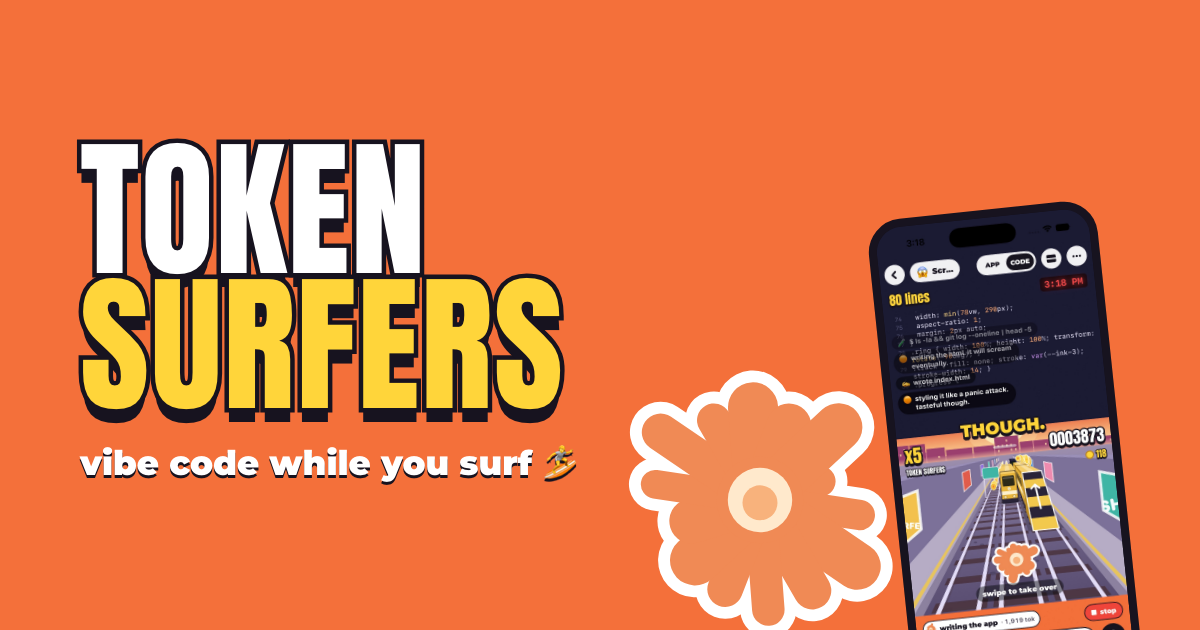
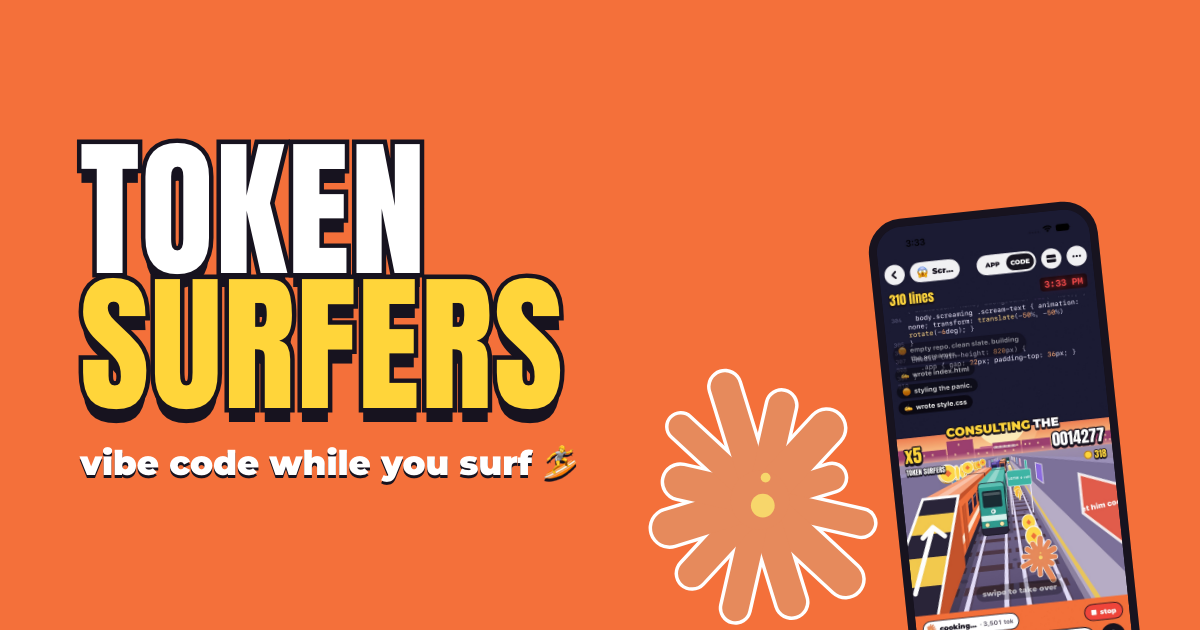
Token Surfers build 11: the splat measured off the reference video — 12 tentacles a quarter of the radius wide around a core a quarter of it, a hairline edge instead of the fat sticker edge that fused it into a cloud, matte terracotta, one pale seed dot, spin 75–150°/s, a ±3% bob; the web splat and 
Claude-Session: https://claude.ai/code/session_01EcWxXhxrgjQBvXsJSVkKRA

Changed region(s): [[0.5242, 0.4524, 0.9558, 1.0], [0.7708, 0.3317, 0.8633, 0.3921]]

diff --git a/apps/tokensurfers/TokenSurfers/Game/BlobArt.swift b/apps/tokensurfers/TokenSurfers/Game/BlobArt.swift
@@ -19,24 +19,27 @@ final class BlobState {
 }
 
 enum BlobArt {
-    static let arms = 14
+    static let arms = 12
     /// Tip radius at rest, body radius, arm width, sticker edge (world units).
-    static let R = 0.43
-    static let body = 0.18
-    static let width = 0.16
-    static let edge = 0.05
+    /// Measured off the reference video (2026-09-24): arms about a quarter of
+    /// the tip radius wide, a core about a quarter of it, a hairline edge —
+    /// more tentacle, less body. A fat edge is what fused the first version
+    /// into a cloud.
+    static let R = 0.52
+    static let body = 0.115
+    static let width = 0.115
+    static let edge = 0.014
     /// The blob floats: its centre sits this high above the ground it runs on.
     static let hover = 0.5
 
-    static let fill = Color(hex: 0xF08A55)
-    static let discOuter = Color(hex: 0xFFE9CC)
-    static let discInner = Color(hex: 0xF8B27C)
+    static let fill = Color(hex: 0xE68A5C)        // the reference's matte terracotta
+    static let seed = Color(hex: 0xF7D66B)        // the pale-yellow dot at its heart
     static let ink = Color(hex: 0x1D1530)
 
     /// Fixed per-arm character: base length and breathing phase.
     private static let seeds: [(len: Double, phase: Double, w: Double, thick: Double)] = (0..<arms).map { i in
         var rng = SeededRandom(seed: 91 + UInt64(i) * 7)
-        return (0.55 + 0.6 * rng.unit(), rng.unit() * 2 * .pi, 2.4 + rng.unit() * 2.2, 0.7 + rng.unit() * 0.65)
+        return (0.6 + 0.4 * rng.unit(), rng.unit() * 2 * .pi, 1.6 + rng.unit() * 1.5, 0.8 + rng.unit() * 0.4)
     }
 
     /// `origin` is the ground point under the character on screen; `unit` is pixels per world unit.
@@ -52,7 +55,7 @@ enum BlobArt {
 
         let dead = p.dead >= 0
         let drop = dead ? min(1, p.dead * 2.5) : 0          // crashed: it sinks to the ground
-        let bob = dead ? 0 : 0.045 * sin(p.t * 7.3) + 0.012 * sin(p.t * 23.7)   // never quite still
+        let bob = dead ? 0 : 0.018 * sin(p.t * 5.1) + 0.006 * sin(p.t * 19.3)   // never quite still, never much
         let centreY = -(hover + p.lift + bob) * unit + drop * (hover - body) * unit
         c.translateBy(x: 0, y: centreY)
         c.scaleBy(x: unit, y: unit)
@@ -89,17 +92,17 @@ enum BlobArt {
 
         // the token in the middle (it doesn't spin with the arms)
         c.rotate(by: .radians(-s.theta))
-        let ro = 0.16, ri = 0.085
-        c.fill(Path(ellipseIn: CGRect(x: -ro, y: -ro, width: ro * 2, height: ro * 2)), with: .color(discOuter))
-        c.fill(Path(ellipseIn: CGRect(x: -ri, y: -ri + 0.02, width: ri * 2, height: ri * 2)), with: .color(discInner))
+        let ro = 0.045, ri = 0.02
+        c.fill(Path(ellipseIn: CGRect(x: -ro + 0.01, y: -ro + 0.02, width: ro * 2, height: ro * 2)), with: .color(seed))
+        c.fill(Path(ellipseIn: CGRect(x: 0.02 - ri, y: -0.085 - ri, width: ri * 2, height: ri * 2)), with: .color(seed))
         if dead {
             // X eyes on the token
             var x = Path()
-            for dx in [-0.075, 0.075] {
-                x.move(to: CGPoint(x: dx - 0.035, y: -0.04)); x.addLine(to: CGPoint(x: dx + 0.035, y: 0.03))
-                x.move(to: CGPoint(x: dx + 0.035, y: -0.04)); x.addLine(to: CGPoint(x: dx - 0.035, y: 0.03))
+            for dx in [-0.05, 0.05] {
+                x.move(to: CGPoint(x: dx - 0.025, y: -0.03)); x.addLine(to: CGPoint(x: dx + 0.025, y: 0.02))
+                x.move(to: CGPoint(x: dx + 0.025, y: -0.03)); x.addLine(to: CGPoint(x: dx - 0.025, y: 0.02))
             }
-            c.stroke(x, with: .color(ink), style: StrokeStyle(lineWidth: 0.025, lineCap: .round))
+            c.stroke(x, with: .color(ink), style: StrokeStyle(lineWidth: 0.02, lineCap: .round))
         }
     }
 
@@ -120,21 +123,21 @@ enum BlobArt {
         let dead = p.dead >= 0
         let air = p.lift > 0.03
         // spin: steady, faster with speed, a boost in the air and in a roll, none when dead
-        var target = dead ? 0 : 2.1 + 1.3 * p.speed
-        if air { target += 4 }
-        if p.rolling > 0 { target += 7 }
+        var target = dead ? 0 : 1.5 + 1.0 * p.speed
+        if air { target += 3.5 }
+        if p.rolling > 0 { target += 6 }
         s.rate += (target - s.rate) * min(1, 6 * dt)
         s.theta += s.rate * dt
 
         let landed = s.wasAirborne && !air
         s.wasAirborne = air
-        let k = 62.0, damp = 8.5
+        let k = 50.0, damp = 8.0
         for i in 0..<arms {
             let seed = seeds[i]
             // the arm's direction on screen, after the spin
             let a = Double(i) / Double(arms) * 2 * .pi + s.theta
-            var goal = seed.len * R * (1 + 0.11 * sin(seed.w * p.t + seed.phase) + 0.05 * sin(seed.w * 1.9 * p.t + seed.phase * 2)
-                                       + 0.03 * sin(seed.w * 4.7 * p.t + seed.phase * 3))   // the jitter
+            var goal = seed.len * R * (1 + 0.14 * sin(seed.w * p.t + seed.phase) + 0.06 * sin(seed.w * 1.9 * p.t + seed.phase * 2)
+                                       + 0.025 * sin(seed.w * 4.7 * p.t + seed.phase * 3))   // the jitter
             // trailing arms stretch behind a lane change
             goal += 0.30 * R * max(0, -cos(a) * p.sway)
             // hanging arms dangle in the air
@@ -143,7 +146,7 @@ enum BlobArt {
             if landed { s.vel[i] += 2.2 }
             s.vel[i] += (-k * (s.len[i] - goal) - damp * s.vel[i]) * dt
             s.len[i] += s.vel[i] * dt
-            s.len[i] = max(body * 0.6, s.len[i])
+            s.len[i] = max(R * 0.3, s.len[i])
         }
     }
 }

diff --git a/apps/tokensurfers/CLAUDE.md b/apps/tokensurfers/CLAUDE.md
@@ -50,8 +50,18 @@ Token Surfers is a real endless runner now, not a screensaver. `Game/`:
   ground, the same shadow, squash and roll transforms as the tube man had.
   The springs live in `BlobState` on the engine (animation only). Second
   pass the same day (Bart: "too large and not quite fun enough"): 14 arms,
-  tip radius 0.43, a vertical bob (0.045 at 7.3 Hz plus a 0.012 jitter),
-  spin 2.1 + 1.3·speed, springs k 62. **`BlobHero` replaces `SurferHero`
+  tip radius 0.43, a vertical bob, spin 2.1 + 1.3·speed. Third pass, against
+  the reference video (`~/Downloads/ScreenRecording_09-24-2026 15-26-25_1.MP4`,
+  Bart: "it is the tentacle to body ratio — more tentacle, less body — and
+  then the motion"): measured off 30 frames with a colour mask (spin
+  ≈ 75–150°/s, bob ≈ ±3% of the radius, tips ≈ 28% of the screen width,
+  arms about a quarter of the tip radius wide, core about a quarter, a
+  hairline edge — the fat sticker edge was what fused the first versions
+  into a cloud). Now: 12 arms, R 0.52, body 0.115, width 0.115, edge 0.014,
+  matte terracotta `E68A5C` with one pale-yellow seed dot off centre (no
+  disc), spin 1.5 + 1.0·speed (+3.5 in the air, +6 in a roll), bob 0.018 at
+  5.1 Hz + 0.006 jitter, breathing ±14% at 1.6–3.1 rad/s, springs k 50.
+  Frames to compare against are in the session's scratch (`ref2/crop*.png`). **`BlobHero` replaces `SurferHero`
   everywhere** (Home, the composer's status pill, the cards, the cutaways,
   the game-over card, the empty shelf): the same drawing spinning in place,
   `energy` = liveliness, `.dead` = the wilted one. On the web, `TubeMan` in
